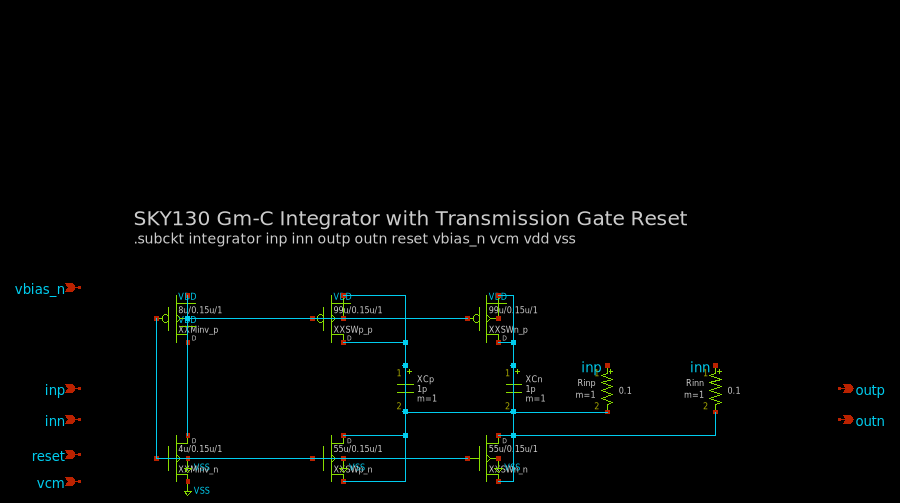
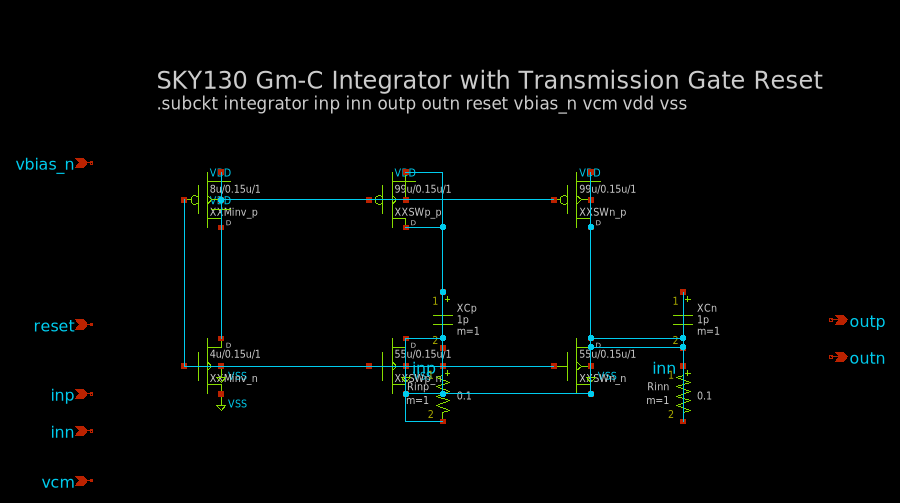
Fix hub net detection: consider total connections, not just passive count
- Nets with > 4 total connections are now treated as hubs (e.g., vcm)
- Integrator: resistors now placed as divider pairs below NMOS switches
- Breaks integrator's 4-element chain into proper pairs

diff --git a/src/placer.py b/src/placer.py
@@ -1025,8 +1025,14 @@ def _find_resistor_chains(circuit: Circuit, passive_names: list) -> list[list[st
             if net and _classify_net(circuit, net) not in ("supply", "ground"):
                 net_to_passives[net].append((name, pin))
 
-    # Identify hub nets (connected to > 2 passives) — don't follow through these
-    hub_nets = {net for net, conns in net_to_passives.items() if len(conns) > 2}
+    # Identify hub nets — don't follow through these
+    # A hub is a net with > 2 passive connections OR > 4 total connections
+    hub_nets = set()
+    for net, conns in net_to_passives.items():
+        if len(conns) > 2:
+            hub_nets.add(net)
+        elif net in circuit.nets and len(circuit.nets[net].connections) > 4:
+            hub_nets.add(net)
 
     # Find chains by following connections, stopping at hub nets
     visited = set()
